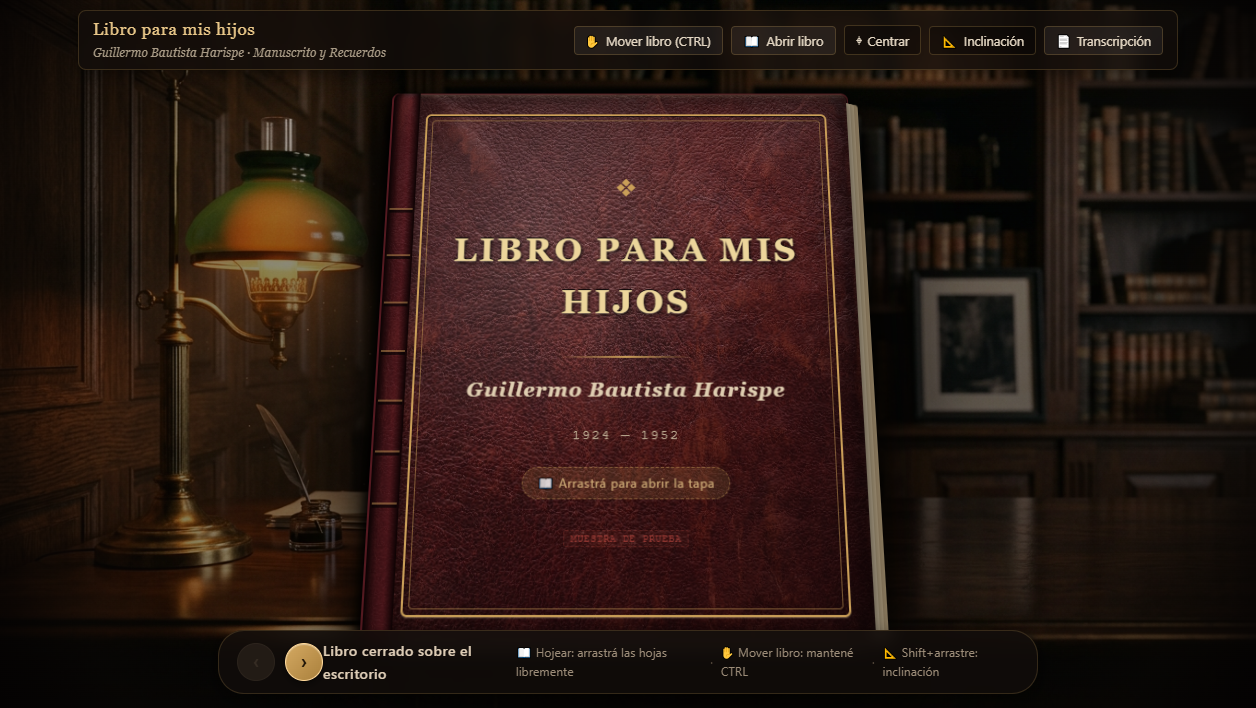
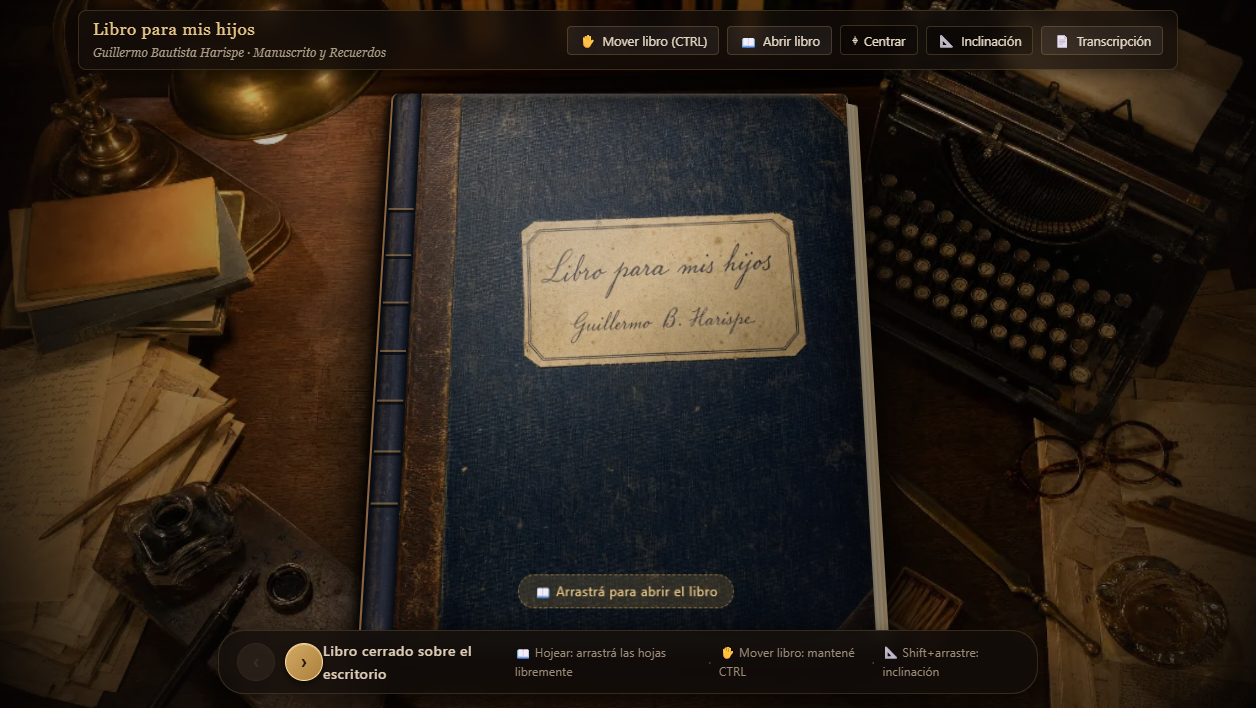
feat: fondos originales de estudio y libro, scripts desacoplados start/stop server

diff --git a/css/typewriter.css b/css/typewriter.css
@@ -33,12 +33,10 @@
   z-index: 1;
   pointer-events: none;
   overflow: hidden;
-  background-color: #0c0806;
-  background-image: 
-    radial-gradient(circle at 50% 50%, transparent 40%, rgba(8, 5, 4, 0.6) 85%, rgba(4, 2, 2, 0.95) 100%),
-    url('../assets/textures/moda-study-desk-scene.webp');
+  background-color: #120c08;
+  background-image: url('../assets/textures/bg-typewriter-study.webp');
   background-size: cover;
-  background-position: center center;
+  background-position: center bottom;
   background-repeat: no-repeat;
 }
 
@@ -836,6 +834,10 @@
 }
 
 @media (max-width: 960px) {
+  .study-room-backdrop {
+    background-position: 28% bottom;
+  }
+
   .study-desk-plane {
     display: none; /* Centrar máquina de escribir limpia en pantallas estrechas */
   }
@@ -843,6 +845,12 @@
   .study-boiserie-wall {
     height: 30vh;
     padding: 8px 12px 0 12px;
+  }
+}
+
+@media (max-width: 600px) {
+  .study-room-backdrop {
+    background-position: 24% bottom;
   }
 }
 

diff --git a/css/main.css b/css/main.css
@@ -78,7 +78,7 @@ html, body {
   -webkit-font-smoothing: antialiased;
 }
 
-/* Superficie del escritorio antiguo de roble oscuro con fondo fotográfico del estudio MODA AI */
+/* Superficie del escritorio antiguo con la imagen adjunta N.º 2 original (bg-book-desk.webp) */
 .desk-surface {
   width: 100vw;
   height: 100vh;
@@ -90,11 +90,8 @@ html, body {
   overflow: hidden;
   padding: 10px 18px 14px 18px;
   
-  /* Composición fotorrealista de MODA AI: ambiente del estudio de época con lámpara y escritorio */
   background-color: #0c0806;
-  background-image: 
-    radial-gradient(circle at 50% 48%, transparent 45%, rgba(10, 7, 5, 0.65) 85%, rgba(4, 2, 2, 0.95) 100%),
-    url('../assets/textures/moda-study-desk-scene.webp');
+  background-image: url('../assets/textures/bg-book-desk.webp');
   background-size: cover;
   background-position: center center;
   background-repeat: no-repeat;
